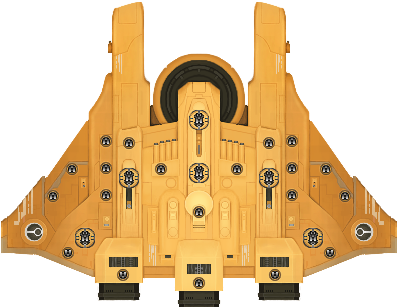
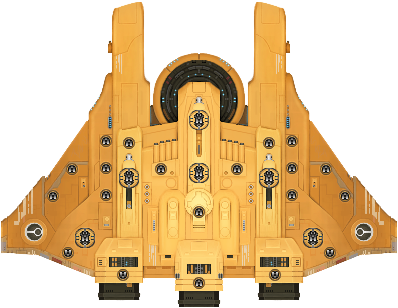
Finish custodian sprite for now, add markerlight

diff --git a/src/mok_slyk/shpe/scripts/hullmods/EnclosedGraviticHook.java b/src/mok_slyk/shpe/scripts/hullmods/EnclosedGraviticHook.java
@@ -1,0 +1,7 @@
+package mok_slyk.shpe.scripts.hullmods;
+
+import com.fs.starfarer.api.combat.BaseHullMod;
+
+public class EnclosedGraviticHook extends BaseHullMod {
+
+}
